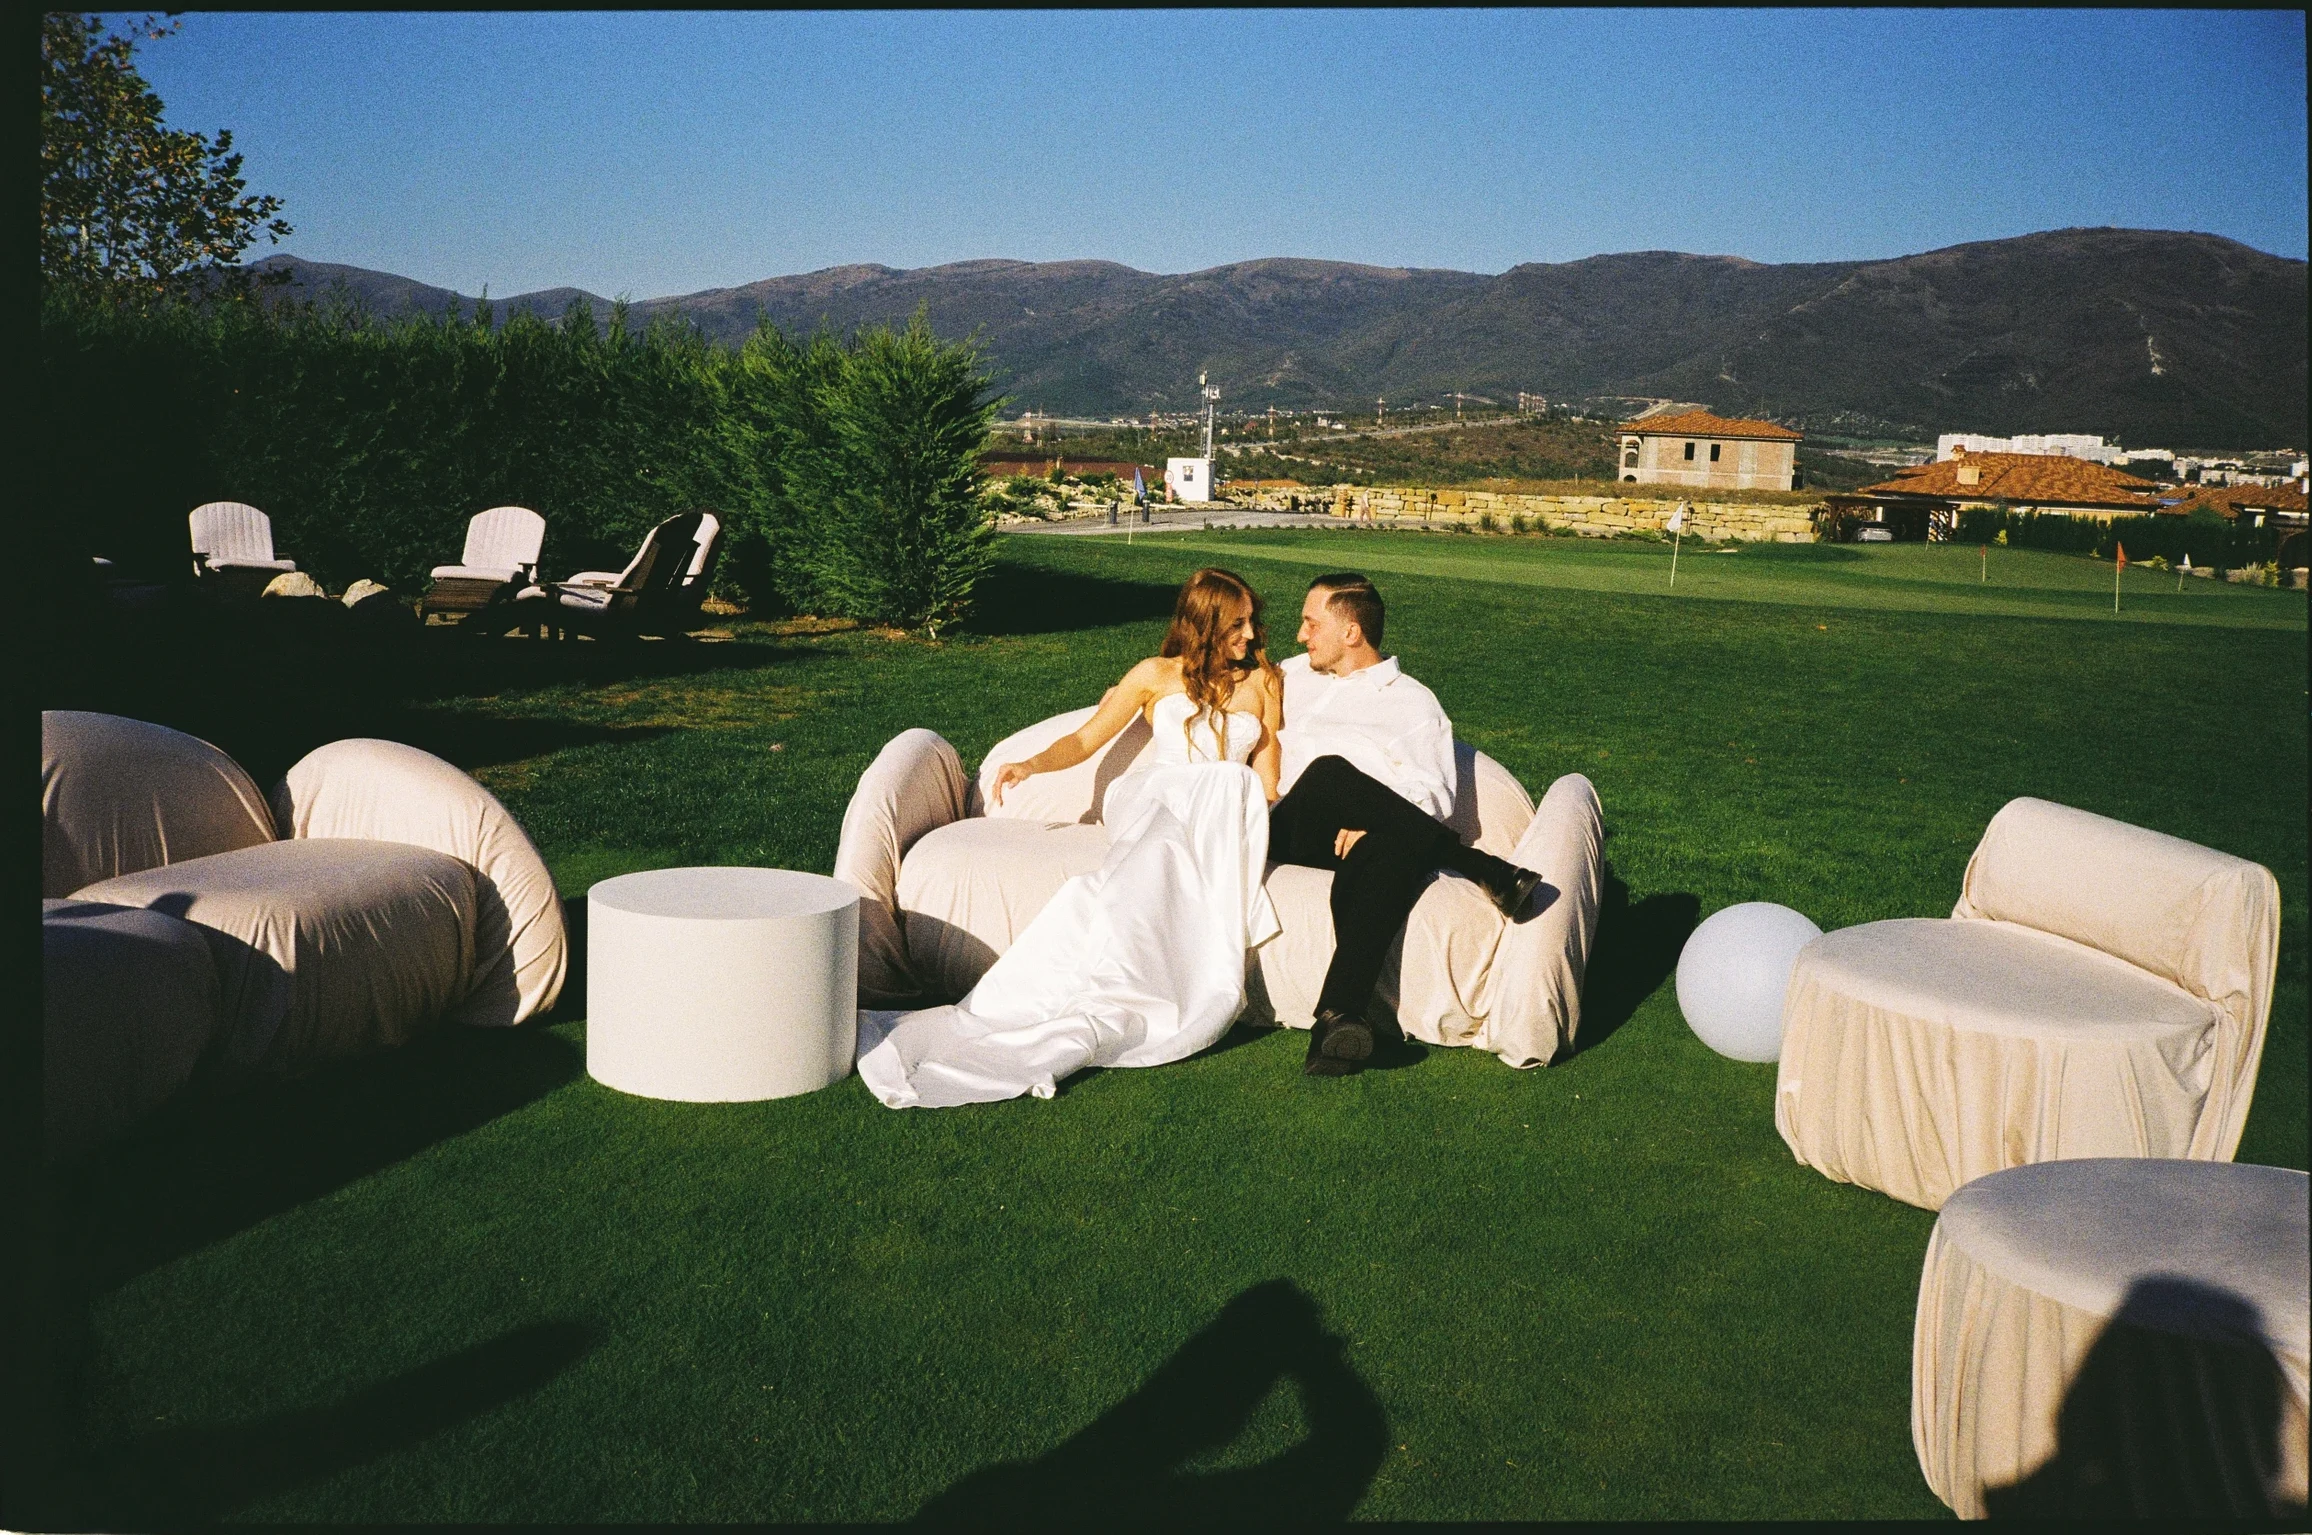
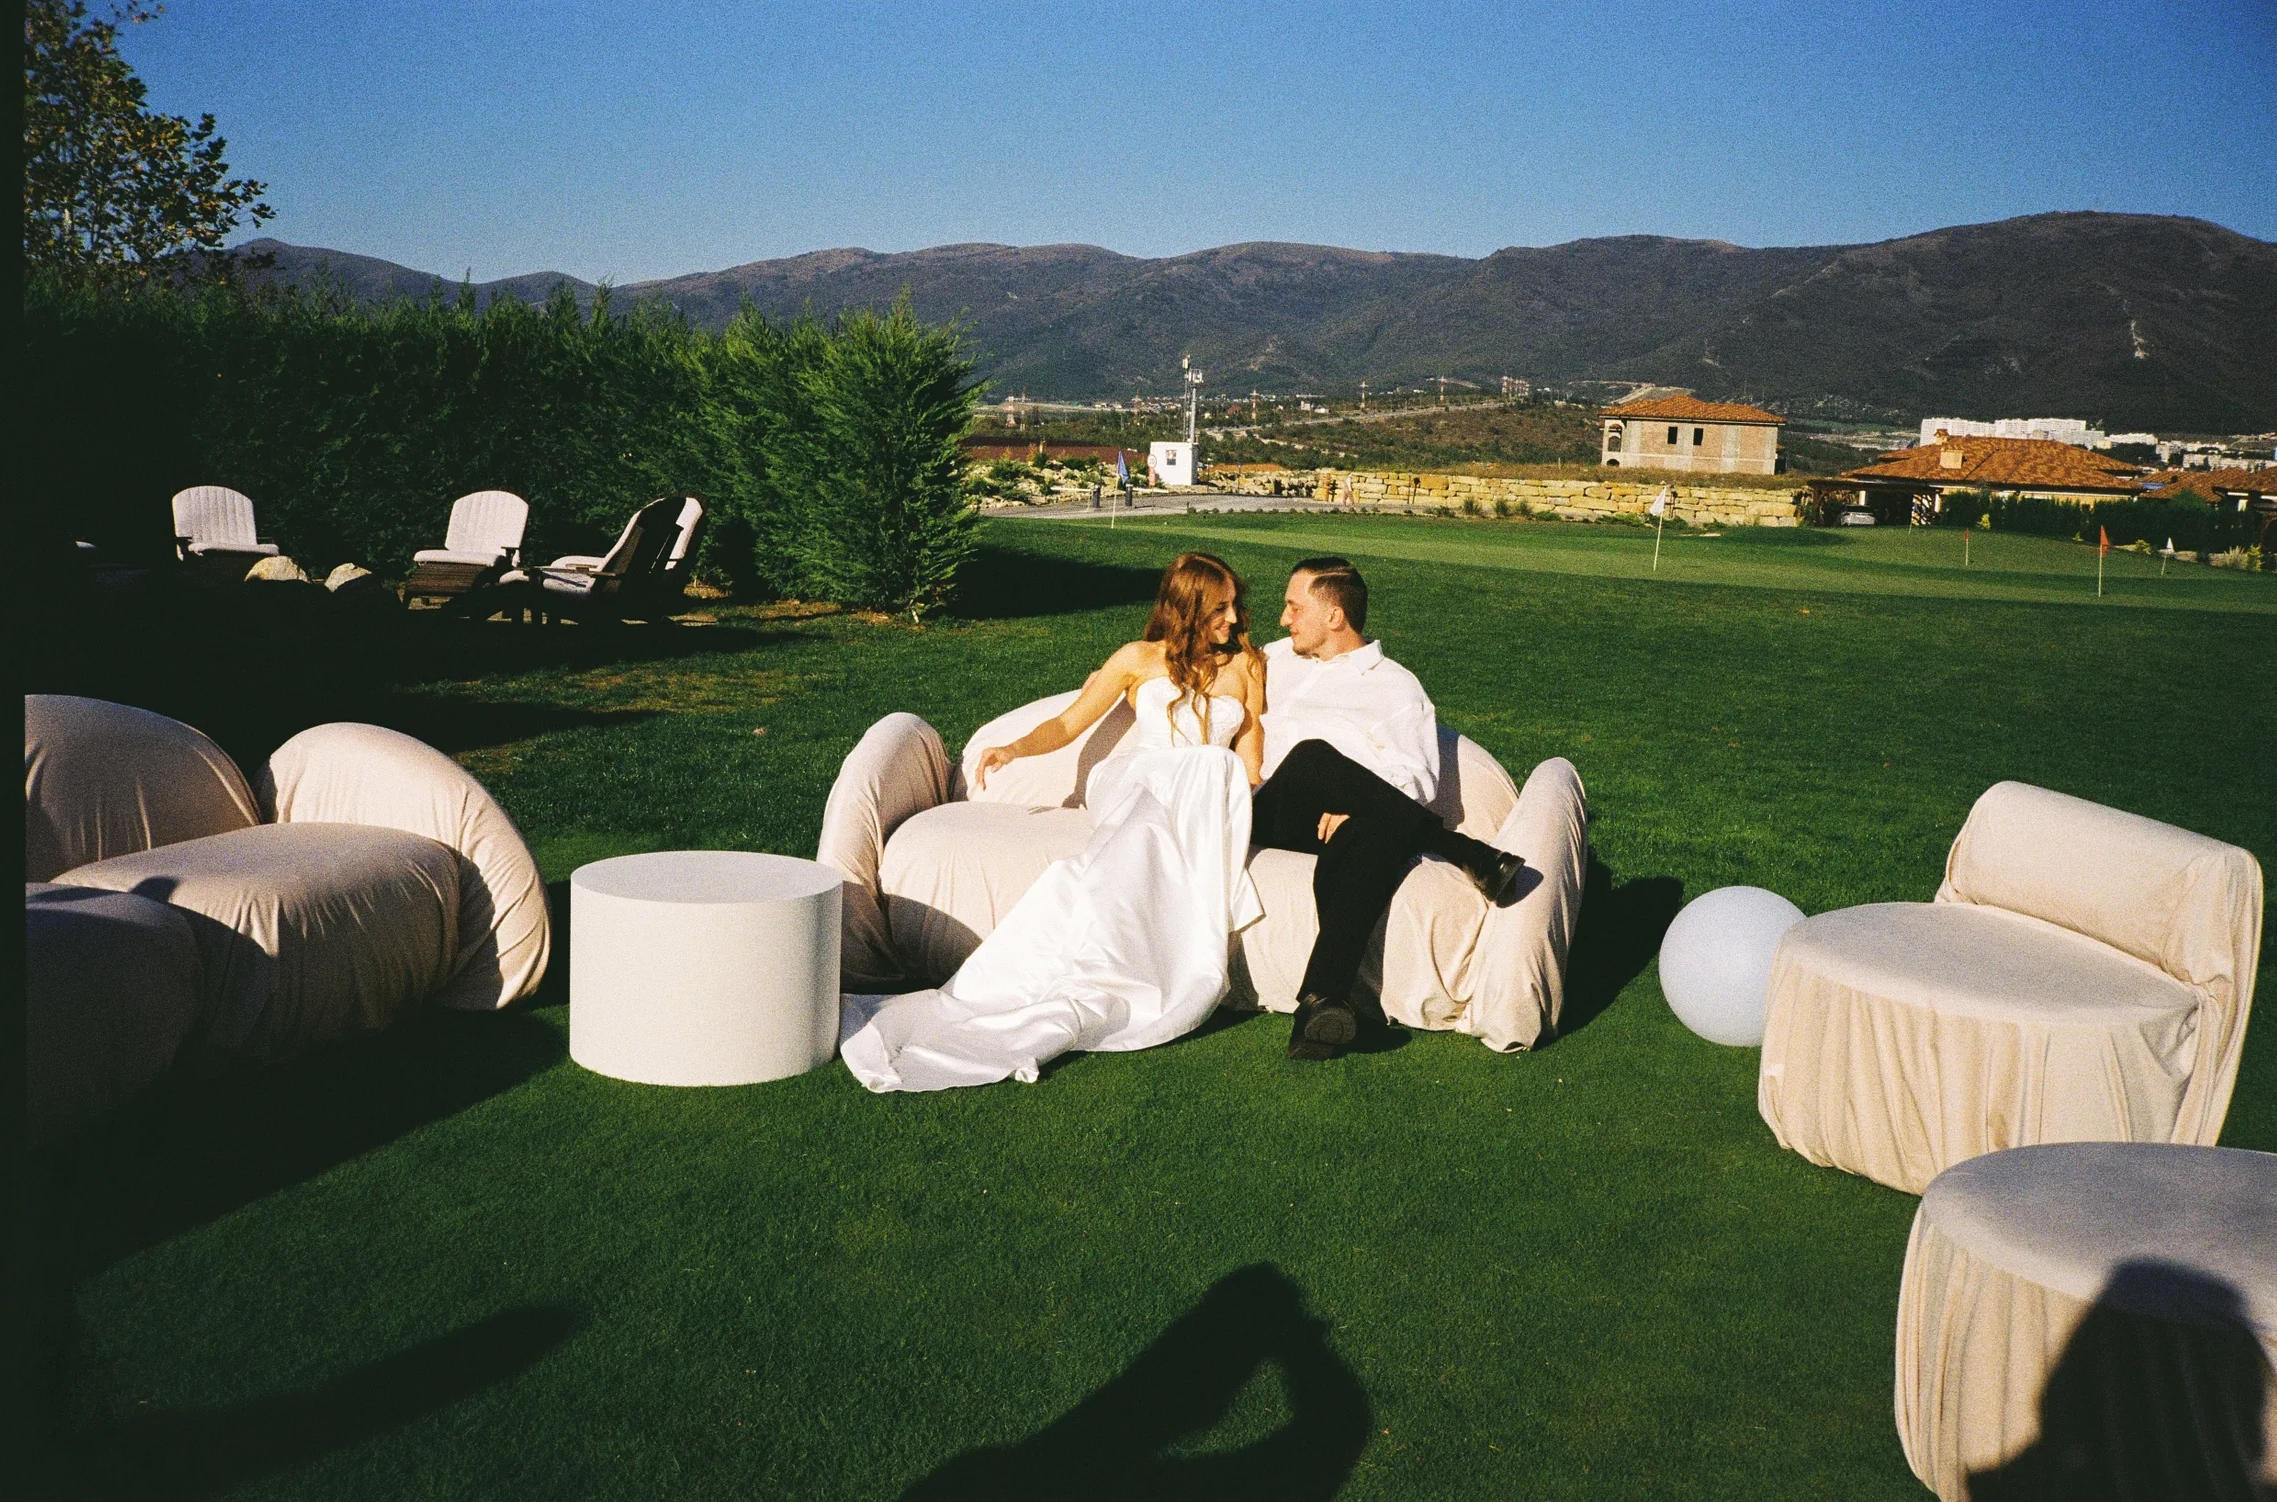
Оформление: фото знакомства обрезаны сильнее (убрана остаточная кайма), кэш v=4

diff --git a/event-decoration.html b/event-decoration.html
@@ -384,8 +384,8 @@
           </div>
           <div class="ea-proc__panel ea-proc-step">
             <h3 class="ea-step__t ea-step__t--top"><span class="ea-step__n">01/</span> знакомство</h3>
-            <img class="ea-proc__ph ea-proc__ph--a" src="images/paloma/decor/znakomstvo-2.webp?v=3" alt="" loading="lazy">
-            <img class="ea-proc__ph ea-proc__ph--b" src="images/paloma/decor/znakomstvo-3.webp?v=3" alt="" loading="lazy">
+            <img class="ea-proc__ph ea-proc__ph--a" src="images/paloma/decor/znakomstvo-2.webp?v=4" alt="" loading="lazy">
+            <img class="ea-proc__ph ea-proc__ph--b" src="images/paloma/decor/znakomstvo-3.webp?v=4" alt="" loading="lazy">
             <div class="ea-step__body ea-step__body--lo">
               <p class="ea-step__d">Мы всегда начинаем со знакомства. Вы рассказываете о событии, площадке, дате и пожеланиях, а мы — о процессе работы и возможностях воплощения вашей <span class="ea-step__script">мечты</span></p>
             </div>